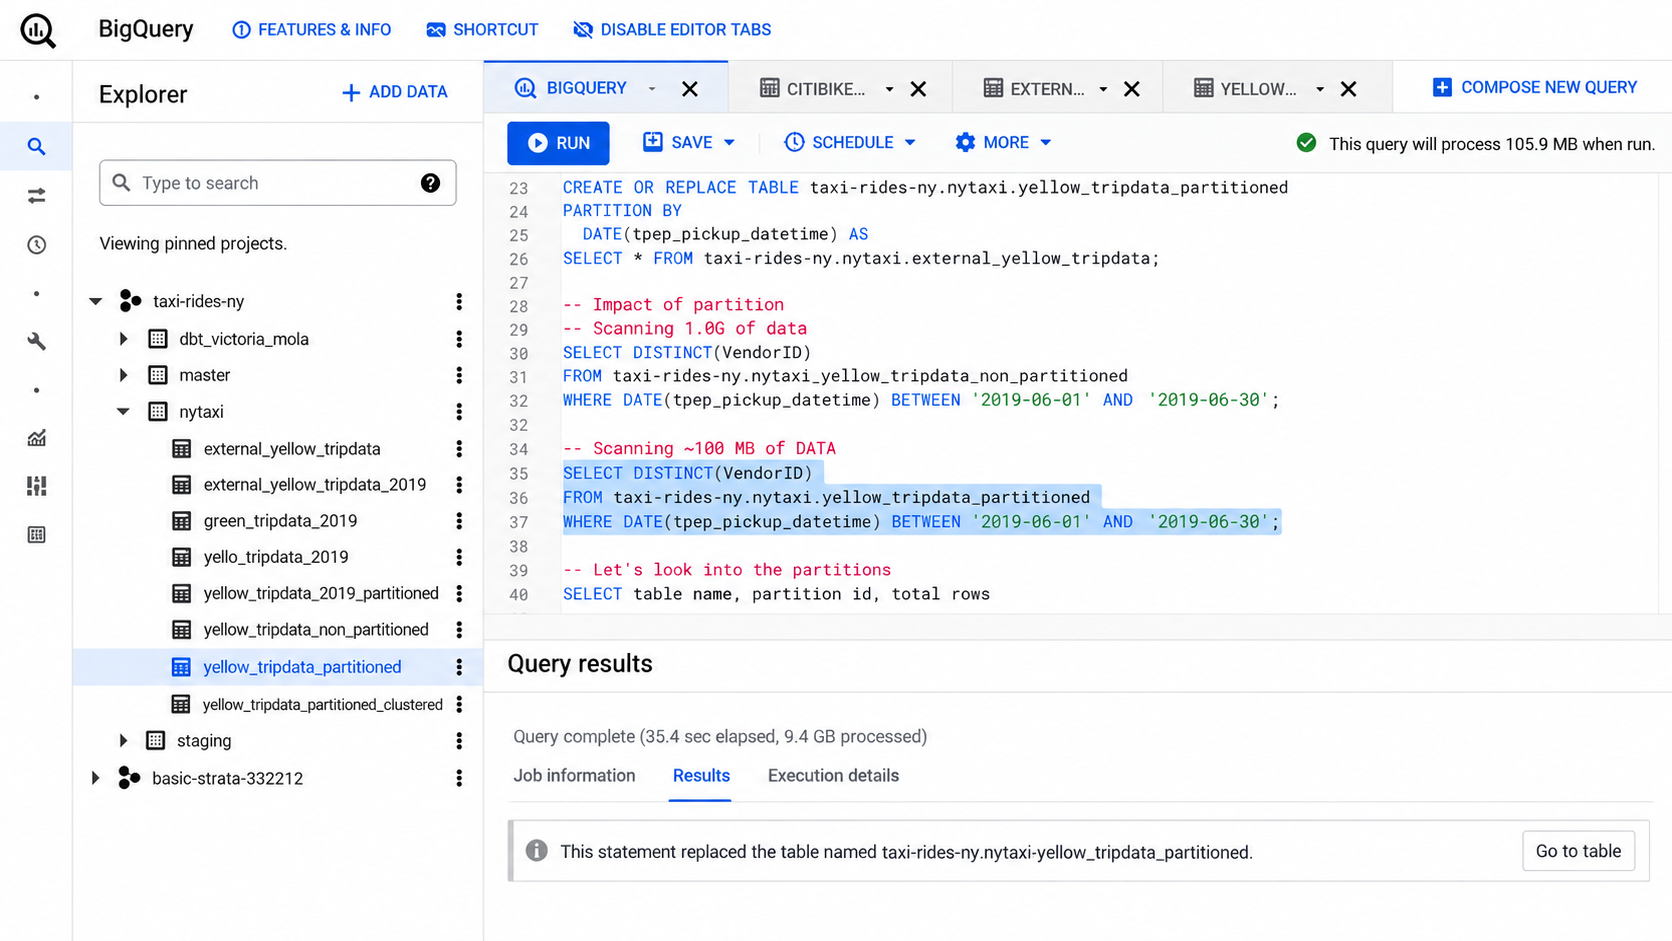
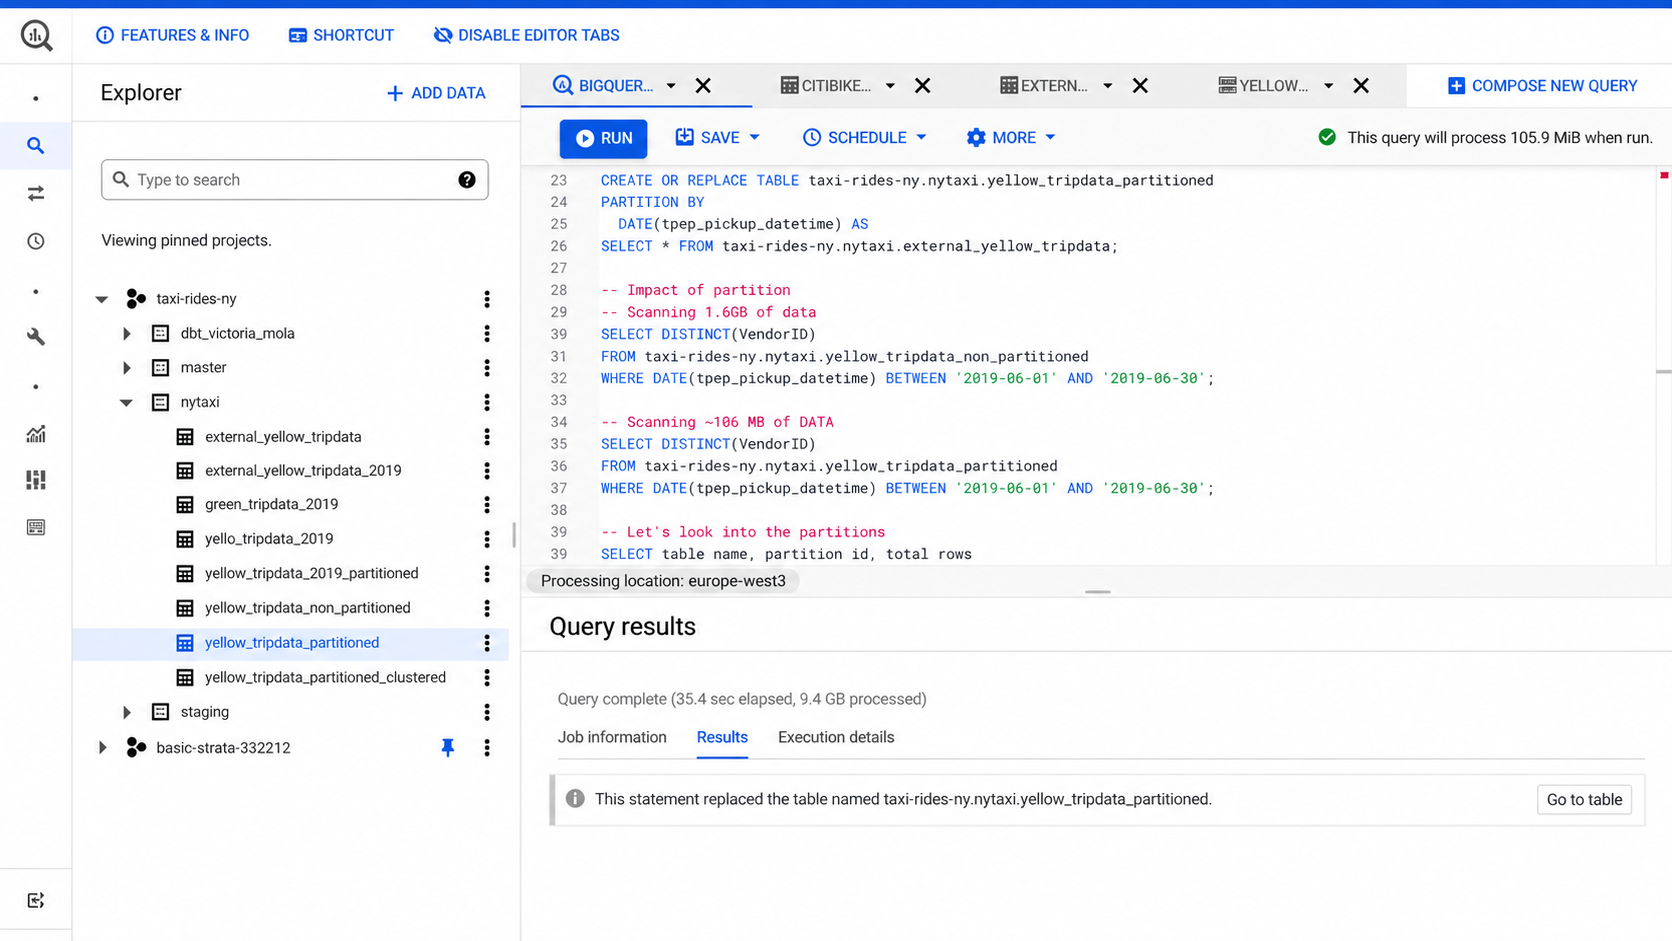
Repair five DE illustration screenshots

diff --git a/cohorts/2027/2026-09-08-imagegen-repair-provenance.md b/cohorts/2027/2026-09-08-imagegen-repair-provenance.md
@@ -1,0 +1,45 @@
+# Imagegen repair provenance — 2026-09-08
+
+This ledger records the five screenshot repairs published in the focused
+commit for the 2027 data warehouse and batch lessons. Each output was
+generated with the built-in imagegen tool from the original non-crisp JPG and
+the corresponding bounded crop. Existing crisp targets were used only as
+layout/composition references where noted; no enlarged or sharpened derivative
+was used as the source of truth.
+
+Native output and a proportional 800px lesson-size render were inspected
+before publication. Original JPGs and bounded crops remain preserved.
+
+| Published target | Original source | Bounded crop | Imagegen output | Validation |
+|---|---|---|---|---|
+| `cohorts/2027/03-data-warehouse/images/01-data-warehouse-and-bigquery-06-partition-pruning-crisp.png` | `01-data-warehouse-and-bigquery-06-partition-pruning.jpg` | `01-data-warehouse-and-bigquery-06-partition-pruning-cropped.png` | `exec-673d2ac2-db5d-470e-93e5-c0da8abb769f.png` | Blue SQL selection removed; exact query/results composition retained; native and 800px checks passed. |
+| `cohorts/2027/03-data-warehouse/images/01-data-warehouse-and-bigquery-08-cluster-pruning-crisp.png` | `01-data-warehouse-and-bigquery-08-cluster-pruning.jpg` | `01-data-warehouse-and-bigquery-08-cluster-pruning-cropped.png` | `exec-f8570e46-a73f-476b-a948-925bc1f709d0.png` | Blue SQL selection removed; dates, table names, counts, and result row retained; native and 800px checks passed. |
+| `cohorts/2027/03-data-warehouse/images/06-deploying-a-machine-learning-model-03-docker-running-crisp.png` | `06-deploying-a-machine-learning-model-03-docker-running.jpg` | `06-deploying-a-machine-learning-model-03-docker-running-cropped.png` | `exec-d0e3136f-450f-4011-8ca9-feeafb84e125.png` | Tight terminal redraw keeps the exact `docker ps` row, ports, and `great_crazy` name; native and 800px checks passed. |
+| `cohorts/2027/06-batch/images/05-spark-dataframes-03-built-in-functions-crisp.png` | `05-spark-dataframes-03-built-in-functions.jpg` | `05-spark-dataframes-03-built-in-functions-cropped.png` | `exec-04676e4d-c051-4dfd-9933-7425d3fc6c78.png` | Green active-cell border and webcam/browser artifacts removed; autocomplete and output retained; native and 800px checks passed. |
+| `cohorts/2027/06-batch/images/11-operations-on-spark-rdds-06-dag-two-stages-crisp.png` | `11-operations-on-spark-rdds-06-dag-two-stages.jpg` | `11-operations-on-spark-rdds-06-dag-two-stages-cropped.png` | `exec-9b893bf0-b432-44ab-b10a-7b03ab9d8d94.png` | Connector visibly starts at the Stage 30 output node and reaches Stage 31 `partitionBy` with complete margins; native and 800px checks passed. |
+
+The imagegen outputs are stored in the local generated-image directory under
+`/home/alexey/.codex/generated_images/01a08261-323e-7721-9a78-009063449c6c/`.
+
+## Published hashes
+
+These hashes make the selected imagegen output auditable after copying it into
+the lesson image paths.
+
+| File | SHA-256 |
+|---|---|
[5 lines of base64/hex data omitted]
+
+## Input hashes
+
+| Repair | Original JPG SHA-256 | Bounded crop SHA-256 |
+|---|---|---|
[5 lines of base64/hex data omitted]
